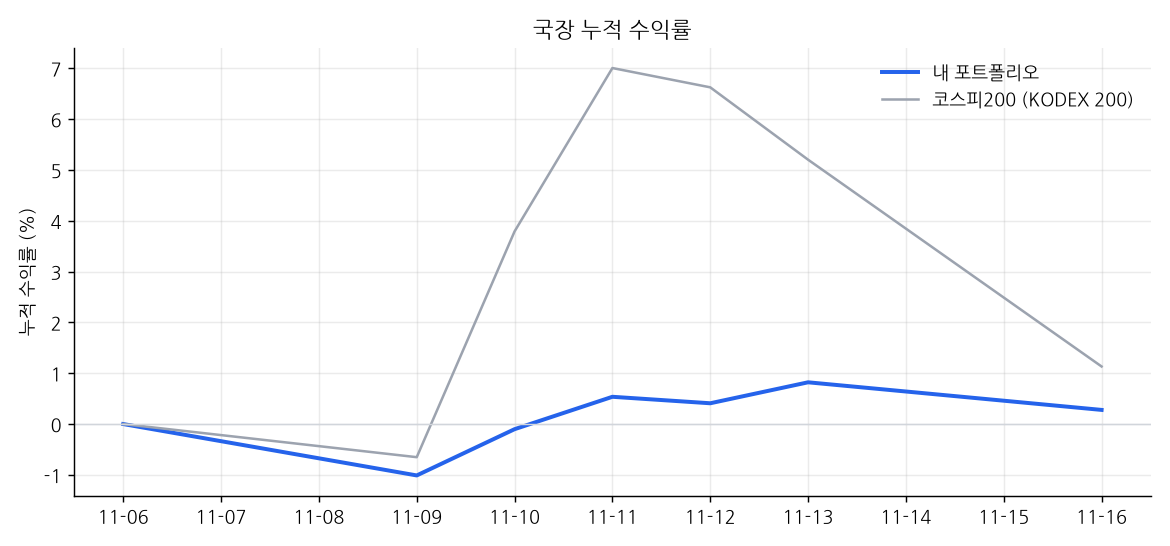
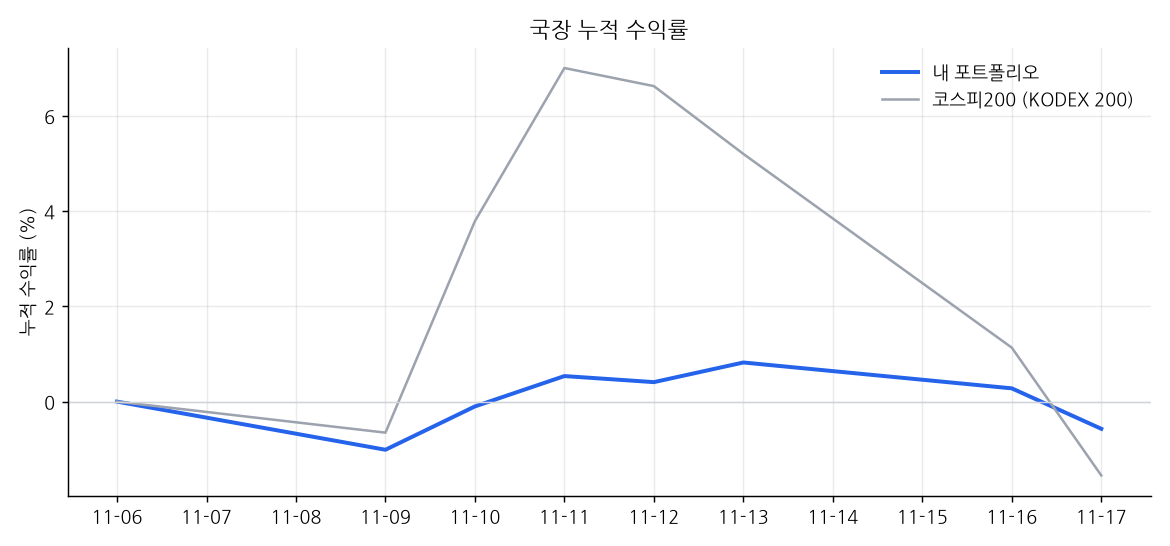
dashboard 2026-11-17 16:00

diff --git a/README.md b/README.md
@@ -1,11 +1,11 @@
 # 📈 내 자동매매 포트폴리오
 
-_마지막 갱신: 2026-11-17 07:30 (KST) · 라즈베리파이 자동 업데이트_
+_마지막 갱신: 2026-11-17 16:00 (KST) · 라즈베리파이 자동 업데이트_
 
 | 트랙 | 시작일 | 누적 수익률 | 비교 지수 | 초과 | 최근 1개월 | 국면 |
 |---|---|---|---|---|---|---|
 | 미장 | 2026-11-05 | **+2.36%** | +0.95% | +1.41% | - | BULL |
-| 국장 | 2026-11-06 | **+0.28%** | +1.13% | -0.85% | - | BEAR |
+| 국장 | 2026-11-06 | **-0.57%** | -1.55% | +0.98% | - | BEAR |
 
 ## 미장
 
@@ -33,14 +33,14 @@ _마지막 갱신: 2026-11-17 07:30 (KST) · 라즈베리파이 자동 업데이
 
 | 종목 | 비중 |
 |---|---|
-| KODEX 단기채권 | 49.4% |
-| 현금 | 14.5% |
+| KODEX 단기채권 | 49.8% |
+| 현금 | 14.6% |
 | 하나금융지주 | 5.3% |
-| 신한지주 | 5.2% |
-| 현대모비스 | 5.0% |
+| 신한지주 | 5.1% |
+| 현대모비스 | 4.9% |
 | 셀트리온 | 4.7% |
-| 삼성SDI | 4.6% |
-| 삼성물산 | 4.4% |
+| 삼성SDI | 4.5% |
+| 삼성물산 | 4.3% |
 | SK스퀘어 | 4.1% |
 | 삼성바이오로직스 | 2.8% |
 
